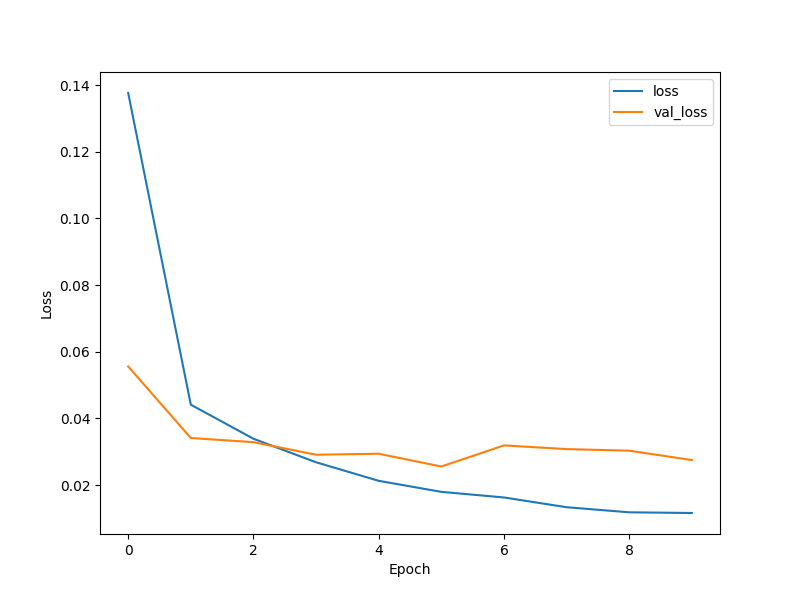
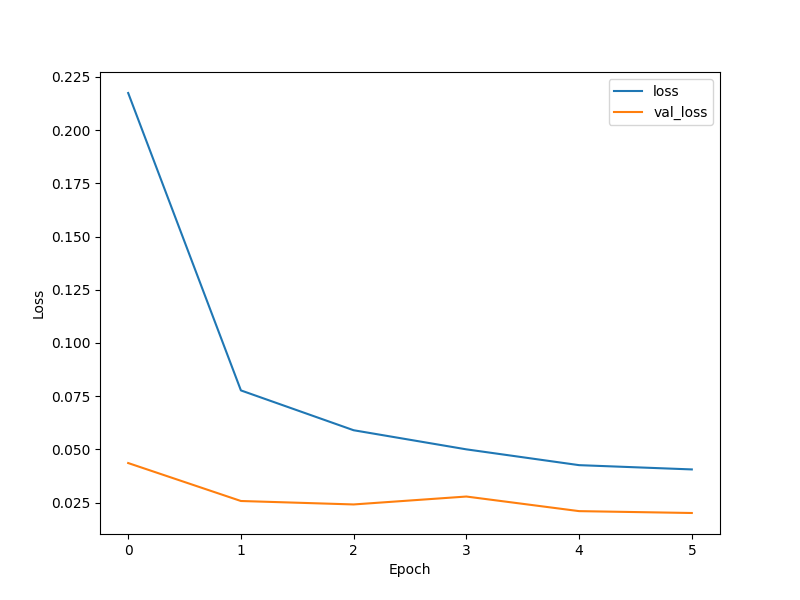
Update main README and change the AI CNN model

diff --git a/AI/AI.py b/AI/AI.py
@@ -1,48 +1,66 @@
 import tensorflow as tf
 import numpy as np
 import matplotlib.pyplot as plt
-
-# Keras libraries for datasets and CNN's model
 from tensorflow.keras.datasets import mnist
 
-# Main function for the AI part
-def mainAI():
+def main_ai():
+    """Create and save a CNN model"""
     # Load data from the mnist dataset into 2 main catergories :
     # Training data and Testing data
     # Handwritten digits dataset
-    (xTrain, yTrain), (xTest, yTest) = mnist.load_data()
+    (x_train, y_train), (x_test, y_test) = mnist.load_data()
     # No need to clean this dataset
-
+    
     # Preprocess the data
-    xTrain = xTrain.reshape((60000, 28, 28, 1)) / 255.0
-    xTest = xTest.reshape((10000, 28, 28, 1)) / 255.0
-    yTrain = tf.keras.utils.to_categorical(yTrain, num_classes=10)
-    yTest = tf.keras.utils.to_categorical(yTest, num_classes=10)
+    input_shape = (28, 28, 1)
+
+    # Normalization and reshaping
+    x_train=x_train.reshape(x_train.shape[0], x_train.shape[1], x_train.shape[2], 1)
+    x_train=x_train / 255.0
+    x_test = x_test.reshape(x_test.shape[0], x_test.shape[1], x_test.shape[2], 1)
+    x_test=x_test/255.0
+
+    # Encode labels
+    y_train = tf.one_hot(y_train.astype(np.int32), depth=10)
+    y_test = tf.one_hot(y_test.astype(np.int32), depth=10)
+
+    batch_size = 64
+    num_classes = 10
+    epochs = 6
+
+    # Stop if we have a good accuracy
+    class myCallback(tf.keras.callbacks.Callback):
+        def on_epoch_end(self, epoch, logs={}):
+            if(logs.get('accuracy')>0.9965):
+                self.model.stop_training = True
+
+    callbacks = myCallback()
 
     # Create the CNN model
-    model = tf.keras.Sequential([
-        tf.keras.layers.Conv2D(64, (3, 3), activation='relu', input_shape=(28, 28, 1)),
-        tf.keras.layers.Conv2D(32, 3, padding='same', activation='relu'),
-        tf.keras.layers.MaxPooling2D(),
-        tf.keras.layers.Conv2D(16, 3, padding='same', activation='relu'),
-        tf.keras.layers.MaxPooling2D(),
-        tf.keras.layers.Conv2D(64, 3, padding='same', activation='relu'),
-        tf.keras.layers.MaxPooling2D(),
+    model = tf.keras.models.Sequential([
+        tf.keras.layers.Conv2D(32, (5,5), padding='same', activation='relu', input_shape=input_shape),
+        tf.keras.layers.Conv2D(32, (5,5), padding='same', activation='relu'),
+        tf.keras.layers.MaxPool2D(),
+        tf.keras.layers.Dropout(0.25),
+        tf.keras.layers.Conv2D(64, (3,3), padding='same', activation='relu'),
+        tf.keras.layers.Conv2D(64, (3,3), padding='same', activation='relu'),
+        tf.keras.layers.MaxPool2D(strides=(2,2)),
+        tf.keras.layers.Dropout(0.25),
         tf.keras.layers.Flatten(),
         tf.keras.layers.Dense(128, activation='relu'),
-        tf.keras.layers.Dense(10, activation='sigmoid')
+        tf.keras.layers.Dropout(0.5),
+        tf.keras.layers.Dense(num_classes, activation='softmax')
     ])
-    
-    # Compile the model
+
     model.compile(optimizer='adam',
-    loss=tf.keras.losses.CategoricalCrossentropy(from_logits=True),
-    metrics=['accuracy'])
-
-    model.summary()
-
+    loss='categorical_crossentropy', metrics=['accuracy'])
+    
     # Train the model
-    trained = model.fit(xTrain, yTrain, epochs=10,
-    validation_data=(xTest, yTest))
+    trained = model.fit(x_train, y_train,
+    batch_size=batch_size,
+    epochs=epochs,
+    validation_data=(x_test, y_test),
+    callbacks=[callbacks])
     
     # Get the plot from the data to show the accuracy of the model
     # Plot for the accuracy of the model
@@ -66,11 +84,10 @@ def mainAI():
     plt.close()
 
     # Calculates the accuracy of the model on the dataset
-    test_loss, test_acc = model.evaluate(xTest,  yTest, verbose=2)
+    test_loss, test_acc = model.evaluate(x_test, y_test)
     
-    # Save the parameters only if the accuracy is greater than 98.6%
-    if(test_acc * 100 > 98.6):
-        model.save('model.h5')
-    print(test_acc)
+    # Save the parameters of the model
+    model.save('model.h5')
 
-mainAI()
+# To get the 
+main_ai()

diff --git a/README.md b/README.md
@@ -1,2 +1,15 @@
-# SudokuSense
-This project is an OCR to detect and solve a sudoku grid in Python
+# SudokuSense :
+## OCR to detect and solve a Sudoku grid with handwritten digits in Python.
+## The application uses a graphical interface.
+### The user imports an image and then press the 'start' button :
+## Step 1: Image processing:
+###  We use filters to bring out the lines and the numbers and thus find and cut the Sudoku grid.
+## Step 2 : Perspective transform :
+### Once the Sudoku grid is found we apply the perspective transform to have an image with the complete grid.
+## Step 3 : Cut the grid and extract each digit of it
+## Step 4 : Recognize digit for each image
+### Use CNN model to recognize each digit (28 x 28) pixels for each image of a digit
+## Step 5 : Solve grid :
+### Solve the Sudoku grid with a backtracking algorithm.
+## Step 6 : Display result :
+### Draw the final grid in an empty image of a Sudoku grid
